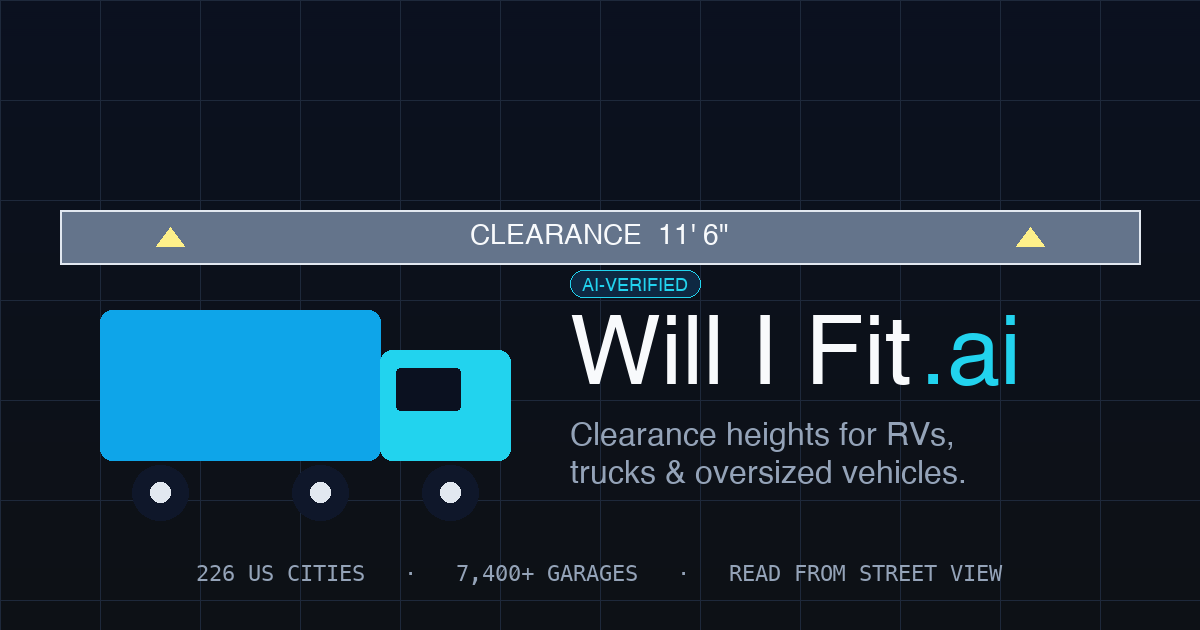
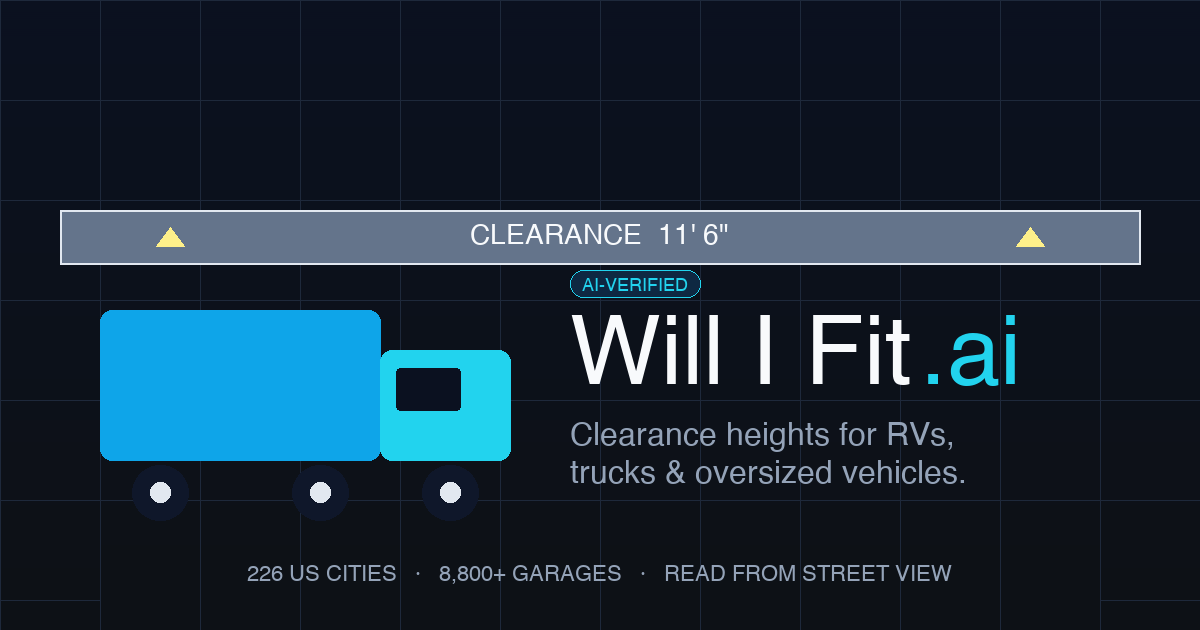
Refresh og-image.png caption: 7,400+ -> 8,800+ garages
The OG/Twitter card image had "7,400+ GARAGES" baked into the bottom
caption strip.  That number was correct when the image was first
generated but is now stale -- database is at 8,863 across 226 cities.
Facebook/Twitter/LinkedIn all show this image when willifit.ai is
shared, and 7,400+ understates the database size by ~17%.

Approach:
  Sampled the strip's gradient background, painted over the original
  caption row with the local colour at each x (preserving the subtle
  dark-blue gradient), then re-rendered:

    "226 US CITIES   ·   8,800+ GARAGES   ·   READ FROM STREET VIEW"

  in Helvetica 22pt at the same vertical centre.  Truck graphic,
  CLEARANCE 11'6" sign, "Will I Fit.ai" headline, and AI-VERIFIED
  pill all stay untouched -- only the bottom caption is touched.

The number "8,800+" is rounded down on purpose (current real total is
8,863, but round numbers read cleaner in social previews and give
breathing room as the count fluctuates with future verifications).

scripts/patch_og_image.py is committed alongside so future count
bumps are a one-command rerun -- just edit CAPTION at the top and
run it.

Existing Facebook/Twitter/Reddit shares keep their cached preview
(those platforms cache for 24-48 hours).  New shares + re-scrapes
via FB Sharing Debugger pick up the fresh image.

Changed region(s): [[0.555, 0.8746, 0.8325, 0.9349], [0.37, 0.8746, 0.5242, 0.9349], [0.1542, 0.8746, 0.3392, 0.9349]]

diff --git a/scripts/patch_og_image.py b/scripts/patch_og_image.py
@@ -1,0 +1,69 @@
+#!/usr/bin/env python3
+"""Patch the bottom-strip caption on og-image.png so it reflects current
+location count.  Original PNG was hand-crafted by an earlier session with
+"7,400+ GARAGES" baked in; database is now 8,863.
+
+Strategy:
+  1. Load original image
+  2. Paint over the entire bottom-strip text region with the gradient
+     background colour (sampled from above/below the text)
+  3. Re-render: "226 US CITIES   ·   8,800+ GARAGES   ·   READ FROM STREET VIEW"
+     using Helvetica.ttc (the closest match to whatever the original
+     designer used -- the original looks like a wide-tracked sans-serif)
+
+Output: overwrites /Users/MrLaptop2/Downloads/ClearPath/og-image.png
+
+Verification: Image dimensions stay 1200x630, 8-bit RGB, PNG.  Width of
+new caption is centred so it lines up under the truck and headline.
+"""
+import os
+from PIL import Image, ImageDraw, ImageFont
+
+PATH = "/Users/MrLaptop2/Downloads/ClearPath/og-image.png"
+HELVETICA = "/System/Library/Fonts/Helvetica.ttc"
+
+img = Image.open(PATH).convert("RGB")
+W, H = img.size
+draw = ImageDraw.Draw(img)
+
+# Sample the background gradient in the strip we're about to paint over.
+# Original strip text occupies roughly y=560-595, x=198-1001.  We expand
+# the paint area slightly so any anti-aliased fringe gets covered.
+strip_top, strip_bottom = 545, 605
+strip_left, strip_right = 100, 1100
+
+# Paint with the local background colour at each pixel (preserving the
+# subtle dark-blue gradient instead of a flat fill that would visibly
+# differ).  Cheap method: copy the row from y=545 (just above text) and
+# y=605 (just below) and blend into the text region.
+# Actually simpler: the background here is essentially uniform dark
+# navy-black RGB(13,17,23 -> 30,41,59 at left edge).  Sample one pixel
+# at each x just below the strip and use it as the fill colour for the
+# whole strip column-by-column -- preserves the gradient exactly.
+for x in range(strip_left, strip_right):
+    bg = img.getpixel((x, 615))  # well below the text
+    for y in range(strip_top, strip_bottom):
+        img.putpixel((x, y), bg)
+
+# Now redraw the caption.  Original looks like ~24px caps, wide tracking.
+# Helvetica regular at size 22, all caps, with manual extra spacing
+# between segments via the middle-dot character.
+font = ImageFont.truetype(HELVETICA, 22, index=0)  # 0 = Regular
+
+CAPTION = "226 US CITIES   ·   8,800+ GARAGES   ·   READ FROM STREET VIEW"
+TEXT_COLOR = (148, 163, 184)  # matches the brighter pixels we sampled
+
+# Centre horizontally, vertically position so it sits in the same strip
+bbox = draw.textbbox((0, 0), CAPTION, font=font)
+text_w = bbox[2] - bbox[0]
+text_h = bbox[3] - bbox[1]
+text_x = (W - text_w) // 2
+text_y = (strip_top + strip_bottom - text_h) // 2 - bbox[1]  # account for baseline
+
+draw.text((text_x, text_y), CAPTION, fill=TEXT_COLOR, font=font)
+
+img.save(PATH, "PNG", optimize=True)
+print(f"Patched: {PATH}")
+print(f"  Caption: '{CAPTION}'")
+print(f"  Position: ({text_x},{text_y})  text_w={text_w}px")
+print(f"  File size: {os.path.getsize(PATH):,} bytes")
